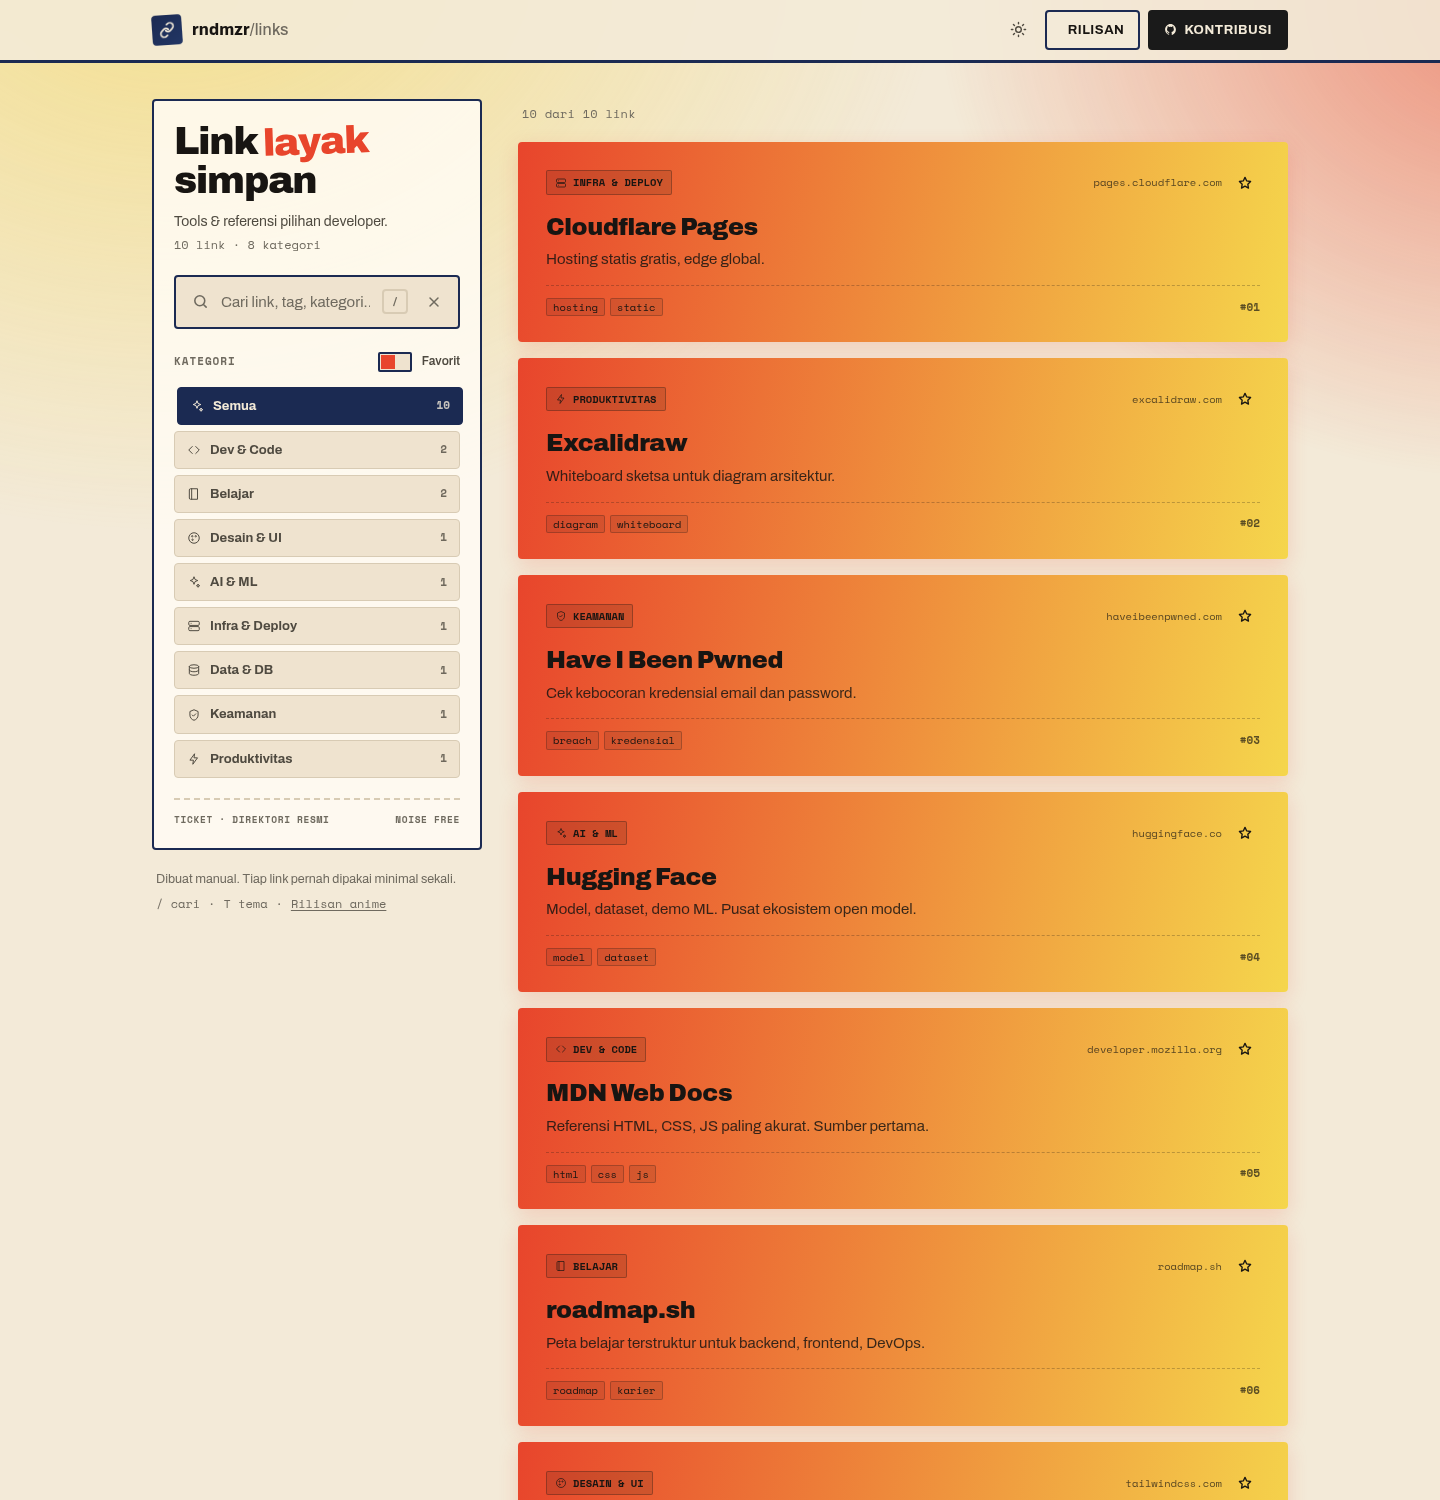
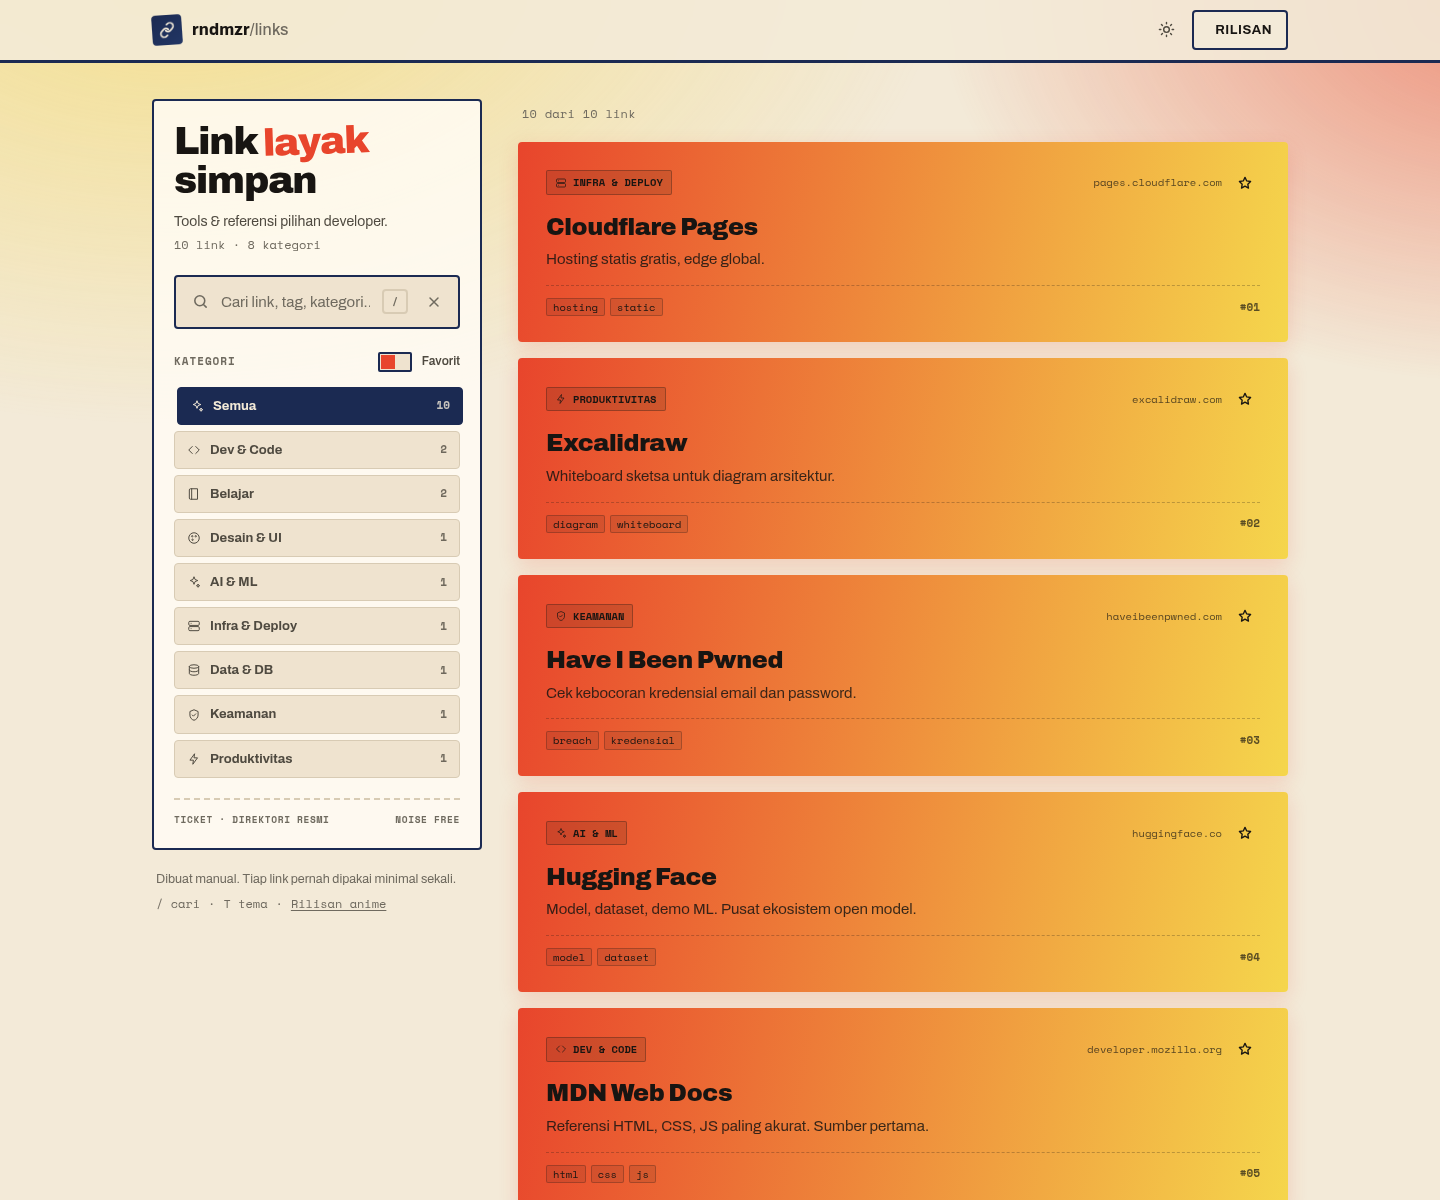
fix(mobile): perbaiki overflow horizontal di mobile, optimasi padding kartu, hapus tombol kontribusi github

Changed region(s): [[0.0, 0.0, 1.0, 1.0], [0.125, 0.6783, 0.25, 0.74], [0.2812, 0.6783, 0.3438, 0.74]]

diff --git a/public/assets/style.css b/public/assets/style.css
@@ -145,14 +145,14 @@ body::before {
 /* ---- app layout :: 2-pane ---- */
 .app-layout {
   display: grid;
-  grid-template-columns: 330px 1fr;
+  grid-template-columns: 330px minmax(0, 1fr);
   gap: 36px;
   padding-block: 36px 72px;
   align-items: start;
 }
 
 /* ---- sidebar (control panel) ---- */
-.sidebar { position: sticky; top: 84px; display: flex; flex-direction: column; gap: 18px; }
+.sidebar { position: sticky; top: 84px; display: flex; flex-direction: column; gap: 18px; min-width: 0; }
 .bill-panel {
   background: var(--surface);
   border: 2px solid var(--midnight);
@@ -161,6 +161,7 @@ body::before {
   display: flex;
   flex-direction: column;
   gap: 20px;
+  min-width: 0;
 }
 [data-theme="dark"] .bill-panel { border-color: var(--line); }
 
@@ -197,7 +198,7 @@ body::before {
 .clear-btn:hover { color: var(--fg); background: var(--surface-2); }
 
 /* ---- filter block ---- */
-.filter-block { display: flex; flex-direction: column; gap: 12px; }
+.filter-block { display: flex; flex-direction: column; gap: 12px; min-width: 0; }
 .filter-title-row { display: flex; align-items: center; justify-content: space-between; gap: 10px; }
 .filter-label { font-size: 11px; font-weight: 700; letter-spacing: .09em; color: var(--fg-dim); }
 .toggle { display: inline-flex; align-items: center; gap: 7px; font-size: 12px; font-weight: 600; color: var(--fg-soft); cursor: pointer; user-select: none; }
@@ -206,7 +207,7 @@ body::before {
 .toggle input:checked { background: var(--accent-soft); border-color: var(--accent); }
 .toggle input:checked::after { transform: translateX(14px); background: var(--accent); }
 
-.chips { display: flex; flex-direction: column; gap: 6px; }
+.chips { display: flex; flex-direction: column; gap: 6px; max-width: 100%; }
 .chip {
   display: flex; align-items: center; gap: 9px; width: 100%; padding: 8px 12px; cursor: pointer;
   background: var(--bg-soft); border: 1.5px solid var(--line); border-radius: var(--r-sm);
@@ -342,20 +343,28 @@ body::before {
 
 /* ---- responsive ---- */
 @media (max-width: 959px) {
-  .app-layout { grid-template-columns: 1fr; gap: 22px; padding-block: 22px 48px; }
+  .app-layout { grid-template-columns: minmax(0, 1fr); gap: 20px; padding-block: 20px 48px; }
   .sidebar { position: static; gap: 14px; }
-  .bill-panel { gap: 16px; }
+  .bill-panel { gap: 16px; padding: 18px 16px; }
   .filter-block { gap: 10px; }
+  #headline { font-size: clamp(28px, 8vw, 36px); }
   .chips {
     flex-direction: row; flex-wrap: nowrap; overflow-x: auto; -webkit-overflow-scrolling: touch;
     scroll-snap-type: x proximity; padding-bottom: 4px;
   }
-  .chip { flex: none; scroll-snap-align: start; }
+  .chip { flex: none; scroll-snap-align: start; padding: 7px 12px; }
   .sidebar-meta { display: none; }
-  .grid { grid-template-columns: 1fr; }
+  .grid { grid-template-columns: minmax(0, 1fr); }
+  .row.card { padding: 16px 15px 15px; gap: 12px; }
+  .row.card .card-title { font-size: 16px; }
+  .row.card .card-desc { -webkit-line-clamp: 2; }
+  .row.card.lead { padding: 19px 17px; }
+  .row.card.lead .card-title { font-size: 20px; }
+  .card-host { max-width: 38%; }
+  .result-bar { padding: 2px 2px 14px; }
   .mobile-footer {
     display: flex; justify-content: space-between; gap: 12px; flex-wrap: wrap;
-    padding-block: 28px 40px; border-top: 2px solid var(--line); font-size: 13px; color: var(--fg-soft);
+    padding-block: 24px 36px; border-top: 2px solid var(--line); font-size: 12.5px; color: var(--fg-soft);
   }
   .mobile-footer .mono { display: flex; gap: 8px; flex-wrap: wrap; }
 }

diff --git a/public/index.html b/public/index.html
@@ -31,10 +31,6 @@
         <svg viewBox="0 0 24 24" fill="none" stroke="currentColor" stroke-width="2" stroke-linecap="round"><path d="M4 11a9 9 0 0 1 9 9"/><path d="M4 4a16 16 0 0 1 16 16"/><circle cx="5" cy="19" r="1.6" fill="currentColor" stroke="none"/></svg>
         <span>Rilisan</span>
       </a>
-      <a class="btn-ink" href="https://github.com/uukinaulf/rndmzrv2" target="_blank" rel="noopener noreferrer">
-        <svg viewBox="0 0 24 24" fill="currentColor" aria-hidden="true"><path d="M12 2C6.5 2 2 6.6 2 12.2c0 4.5 2.9 8.3 6.8 9.7.5.1.7-.2.7-.5v-1.8c-2.8.6-3.4-1.4-3.4-1.4-.5-1.2-1.1-1.5-1.1-1.5-.9-.6.1-.6.1-.6 1 .1 1.5 1 1.5 1 .9 1.6 2.4 1.1 3 .9.1-.7.4-1.1.6-1.4-2.2-.3-4.6-1.1-4.6-5 0-1.1.4-2 1-2.7-.1-.3-.4-1.3.1-2.7 0 0 .8-.3 2.7 1a9.3 9.3 0 0 1 5 0c1.9-1.3 2.7-1 2.7-1 .5 1.4.2 2.4.1 2.7.6.7 1 1.6 1 2.7 0 3.9-2.3 4.7-4.6 5 .4.3.7 1 .7 2v2.9c0 .3.2.6.7.5A10.3 10.3 0 0 0 22 12.2C22 6.6 17.5 2 12 2z"/></svg>
-        <span>Kontribusi</span>
-      </a>
     </div>
   </div>
 </header>
